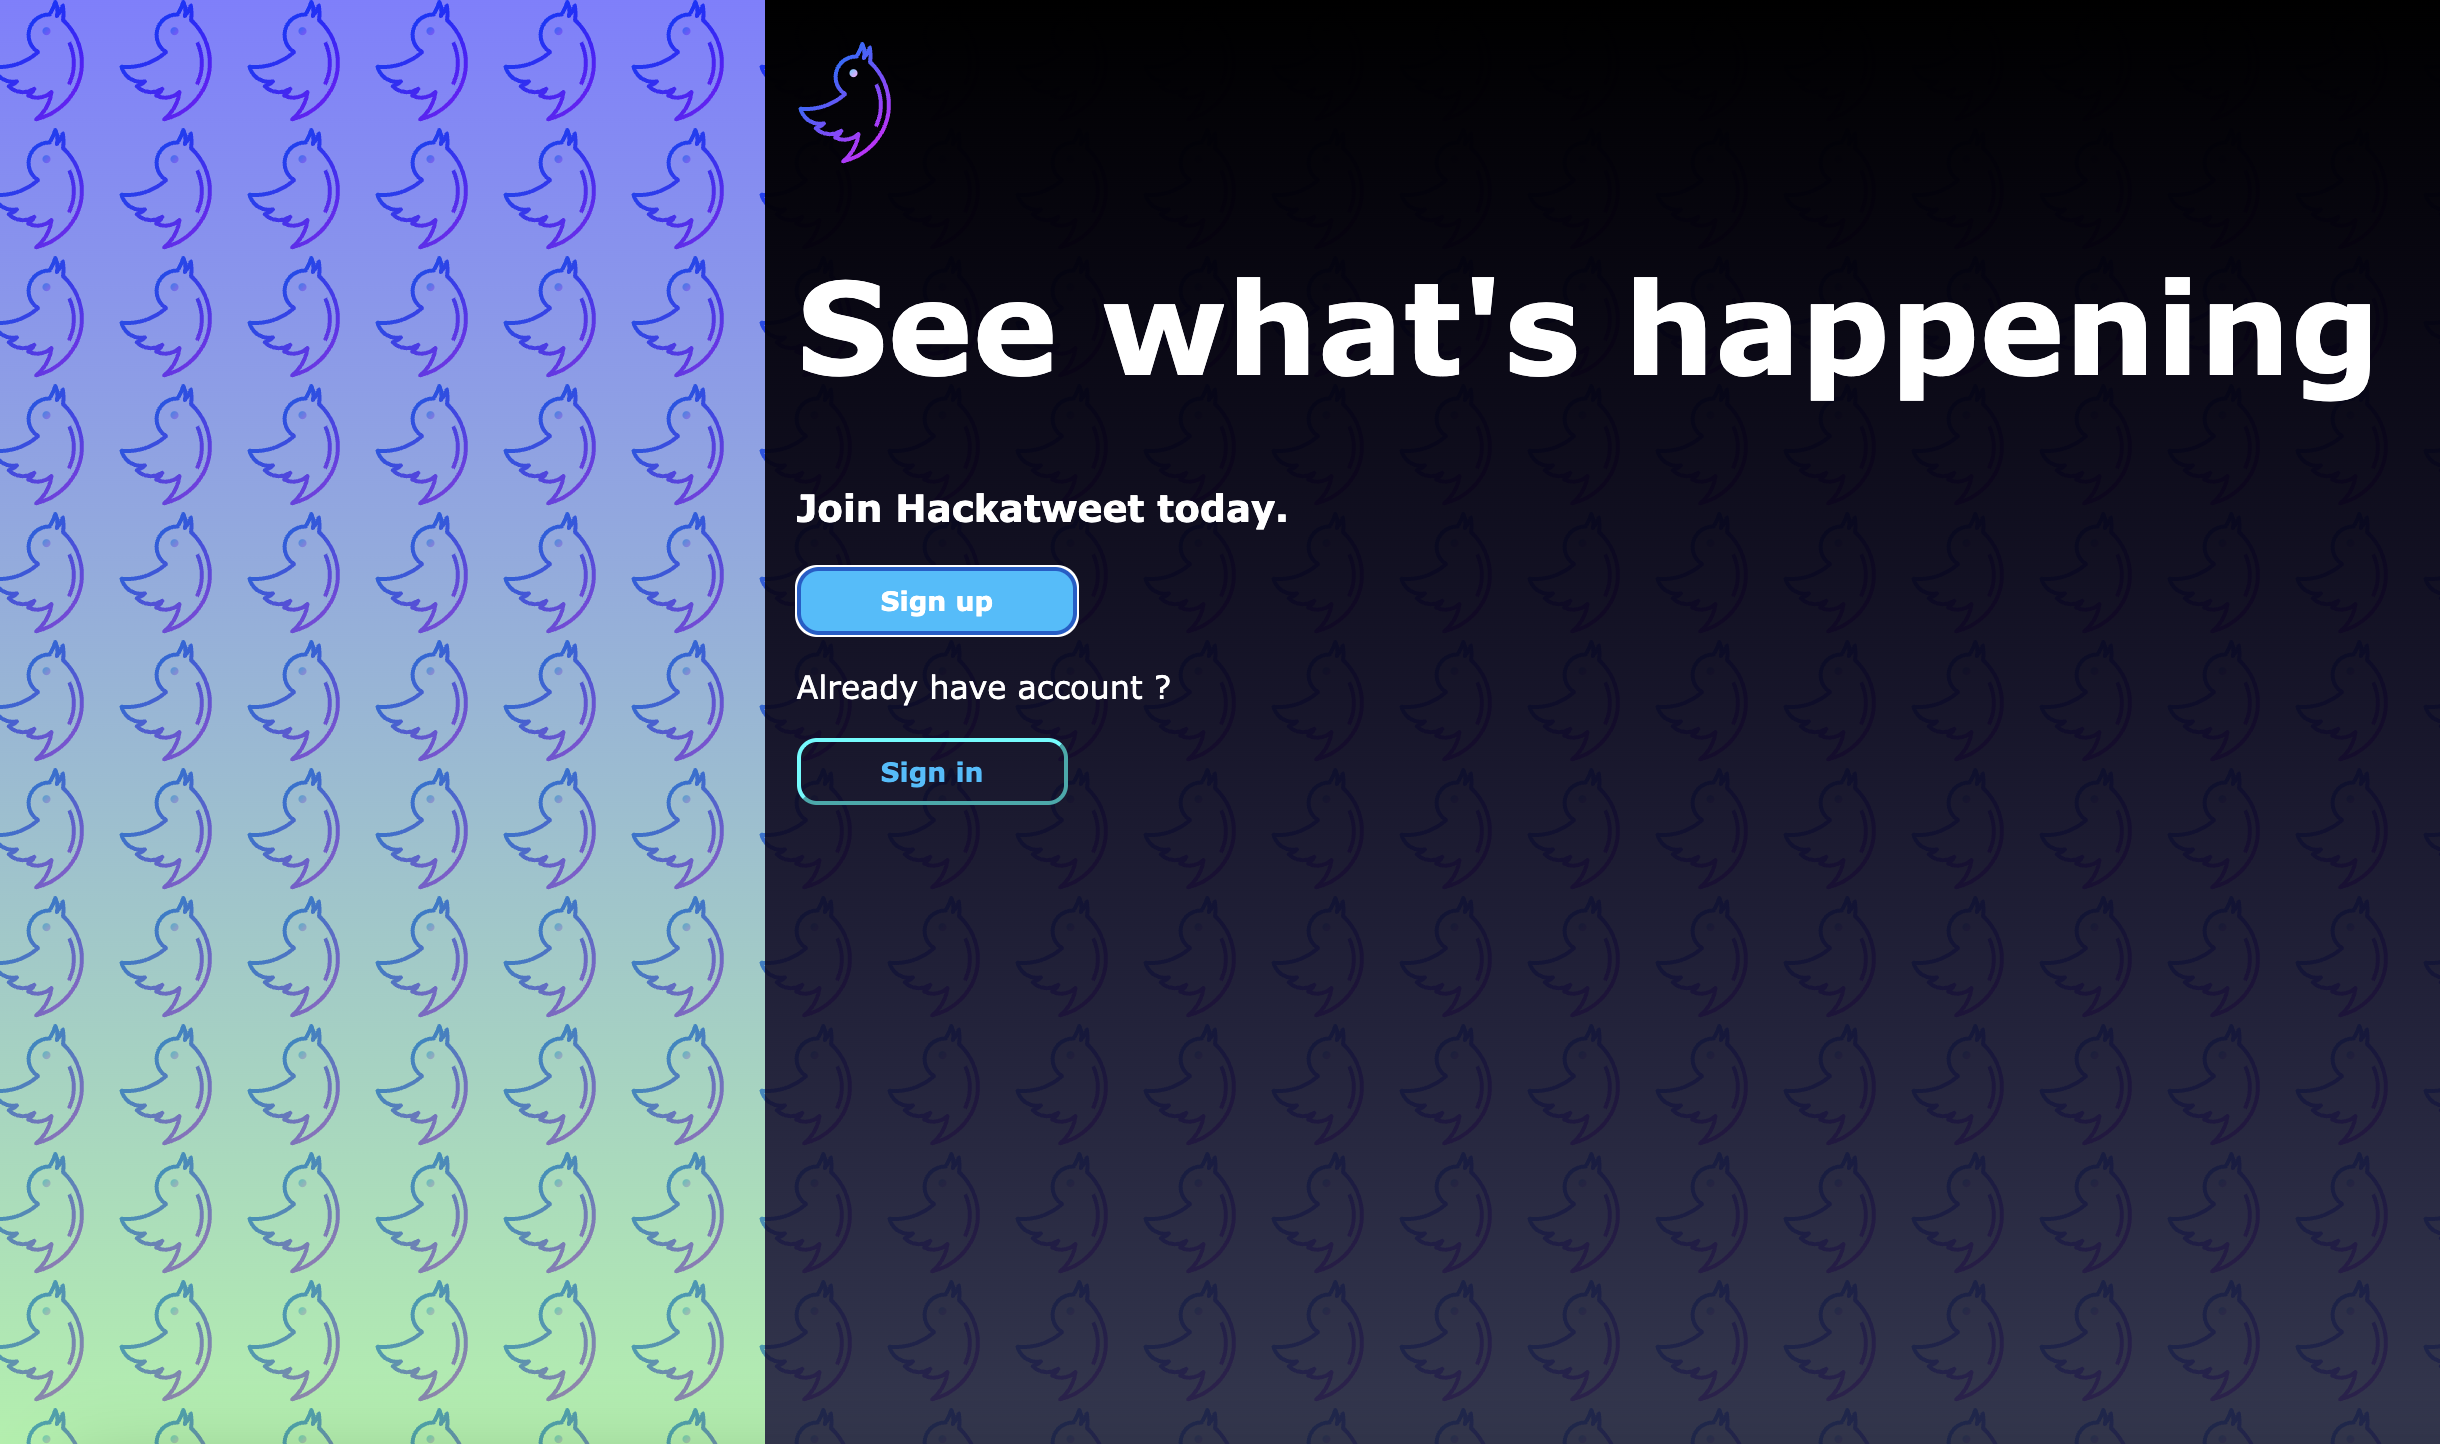
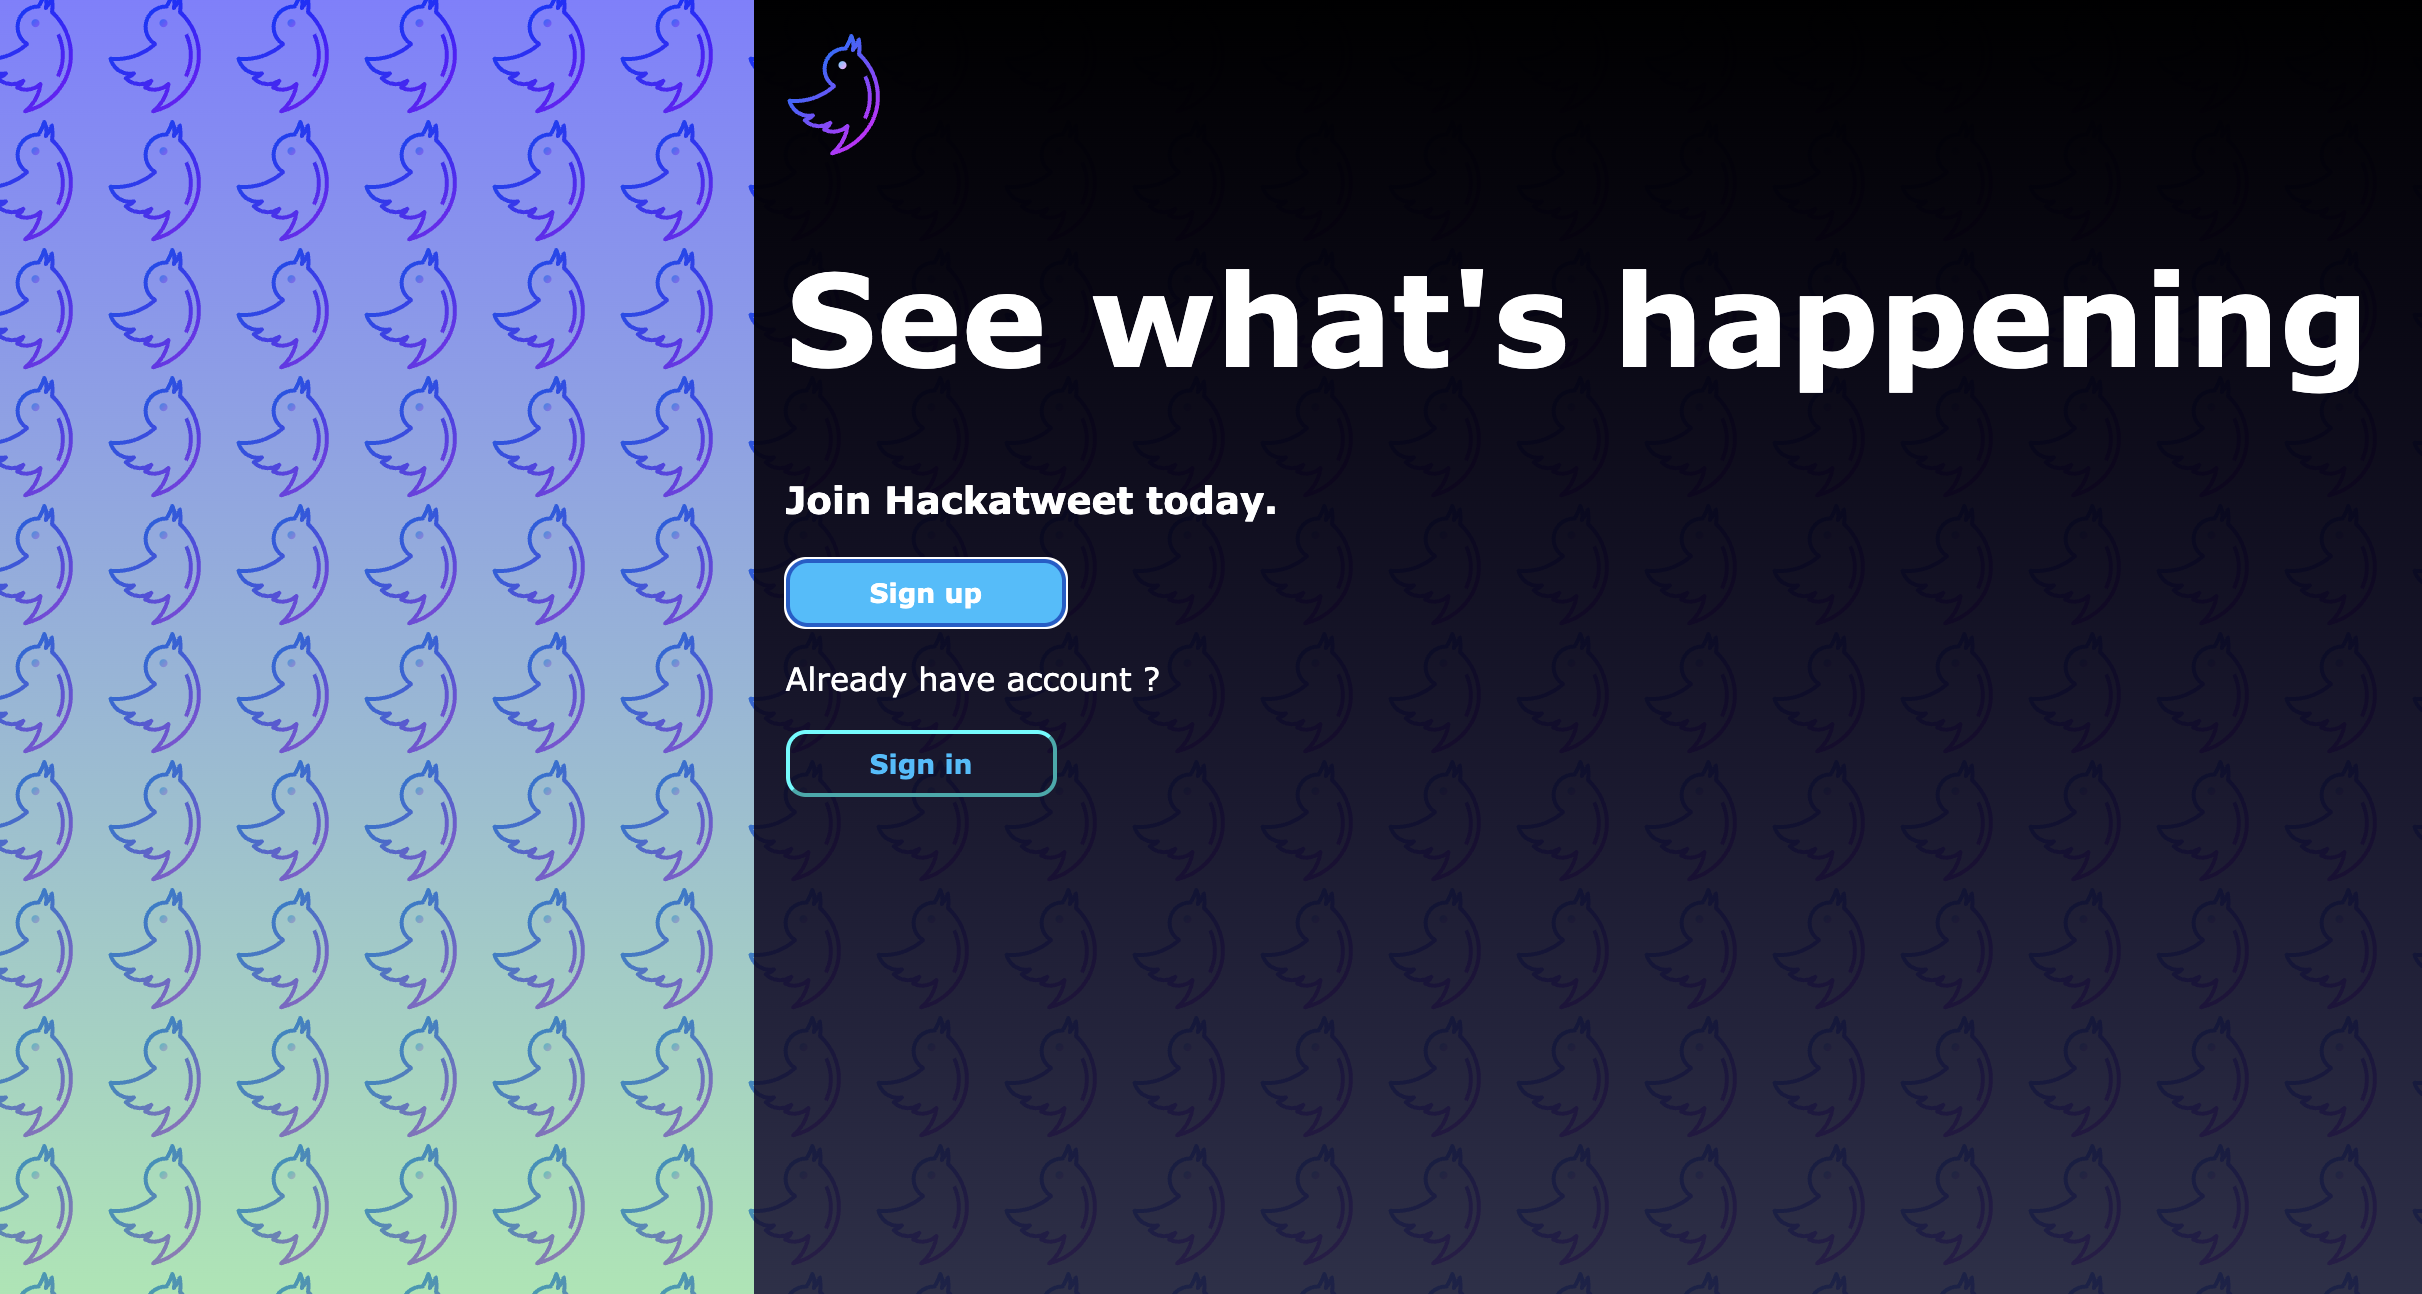
responsive

Changed region(s): [[0.0, 0.0, 0.9909, 1.0]]

diff --git a/components/Projects.js b/components/Projects.js
@@ -32,7 +32,7 @@ const Projects = () => {
                     <Image
                       src={project.flipImage}
                       alt={project.flipAlt}
-                      style={{backgroundSize: 'contain'}}
+                      className={styles.image}
                       width={380}
                       height={200}
                     />

diff --git a/styles/Projects.module.css b/styles/Projects.module.css
@@ -104,7 +104,21 @@ color: #b3b3b3;
     transform: rotateY(180deg);
   }
 
+  .image {
+    width: 100%;
+    height: auto;
+  }
+
   .video {
     width: 380px;
     height: 200px;
   }
+
+  @media screen and (max-width: 500px) {
+    .video {
+      width: 280px;
+    };
+    .image{
+      width: 280px;
+    }
+    }

diff --git a/styles/Navbar.module.css b/styles/Navbar.module.css
@@ -50,4 +50,7 @@
     .hr {
       width: 100%;
     }
+    .menu {
+      display: none;
+    }
   }
